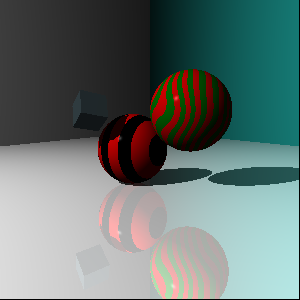
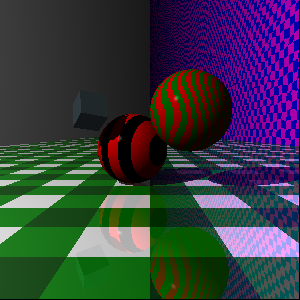
fixes

diff --git a/main.go b/main.go
@@ -304,13 +304,13 @@ func scene() {
 	// 	tracer.NewRingPattern(
 	// 		tracer.ColorName(colornames.Fuchsia), tracer.ColorName(colornames.Blue)),
 	// 	0.9)
-	// bp1 := tracer.NewStripedPattern(tracer.ColorName(colornames.Green), tracer.ColorName(colornames.White))
-	// bp2 := tracer.NewStripedPattern(tracer.ColorName(colornames.Green), tracer.ColorName(colornames.White))
+	bp1 := tracer.NewStripedPattern(tracer.ColorName(colornames.Green), tracer.ColorName(colornames.White))
+	bp2 := tracer.NewStripedPattern(tracer.ColorName(colornames.Green), tracer.ColorName(colornames.White))
 	// rotate bp2 by 90 degrees
-	// bp2.SetTransform(tracer.IdentityMatrix().RotateY(math.Pi / 2))
+	bp2.SetTransform(tracer.IdentityMatrix().RotateY(math.Pi / 2))
 
-	// p := tracer.NewBlendedPattern(bp1, bp2)
-	// floor.Material().SetPattern(bp1)
+	p := tracer.NewBlendedPattern(bp1, bp2)
+	floor.Material().SetPattern(p)
 	w.AddObject(floor)
 
 	wallMaterial := tracer.NewDefaultMaterial()
@@ -327,12 +327,12 @@ func scene() {
 	rightWall := tracer.NewPlane()
 	rightWall.SetTransform(
 		tracer.IdentityMatrix().RotateZ(math.Pi/2).Translate(15, 0, 0))
-	// pRightWall := tracer.NewPertrubedPattern(
-	// 	tracer.NewCheckerPattern(
-	// 		tracer.ColorName(colornames.Fuchsia), tracer.ColorName(colornames.Blue)),
-	// 	0.5)
-	// rightWall.Material().SetPattern(pRightWall)
-	rightWall.Material().Color = tracer.ColorName(colornames.Lightseagreen)
+	pRightWall := tracer.NewPertrubedPattern(
+		tracer.NewCheckerPattern(
+			tracer.ColorName(colornames.Fuchsia), tracer.ColorName(colornames.Blue)),
+		0.5)
+	rightWall.Material().SetPattern(pRightWall)
+	// rightWall.Material().Color = tracer.ColorName(colornames.Lightseagreen)
 	w.AddObject(rightWall)
 
 	// sphere

diff --git a/tracer/world.go b/tracer/world.go
@@ -3,6 +3,7 @@ package tracer
 import (
 	"math"
 	"sort"
+	"sync"
 
 	"golang.org/x/exp/shiny/materialdesign/colornames"
 )
@@ -163,21 +164,21 @@ func (w *World) Render() *Canvas {
 	canvas := NewCanvas(int(camera.Hsize), int(camera.Vsize))
 	maxRecursion := 4
 
-	// var wg sync.WaitGroup
+	var wg sync.WaitGroup
 
 	for y := 0.0; y < camera.Vsize-1; y++ {
 		for x := 0.0; x < camera.Hsize-1; x++ {
-			// wg.Add(1)
-			// go func(x, y float64) {
-			ray := camera.RayForPixel(x, y)
-			clr := w.ColorAt(ray, maxRecursion)
-			canvas.SetFloat(x, y, clr)
-			// wg.Done()
-			// }(x, y)
+			wg.Add(1)
+			go func(x, y float64) {
+				ray := camera.RayForPixel(x, y)
+				clr := w.ColorAt(ray, maxRecursion)
+				canvas.SetFloat(x, y, clr)
+				wg.Done()
+			}(x, y)
 		}
 	}
 
-	// wg.Wait()
+	wg.Wait()
 
 	return canvas
 }

diff --git a/tracer/canvas.go b/tracer/canvas.go
@@ -8,7 +8,7 @@ import (
 	"io"
 	"sync"
 
-	"golang.org/x/exp/shiny/materialdesign/colornames"
+	"golang.org/x/image/colornames"
 )
 
 // Canvas is the canvas for drawing on
